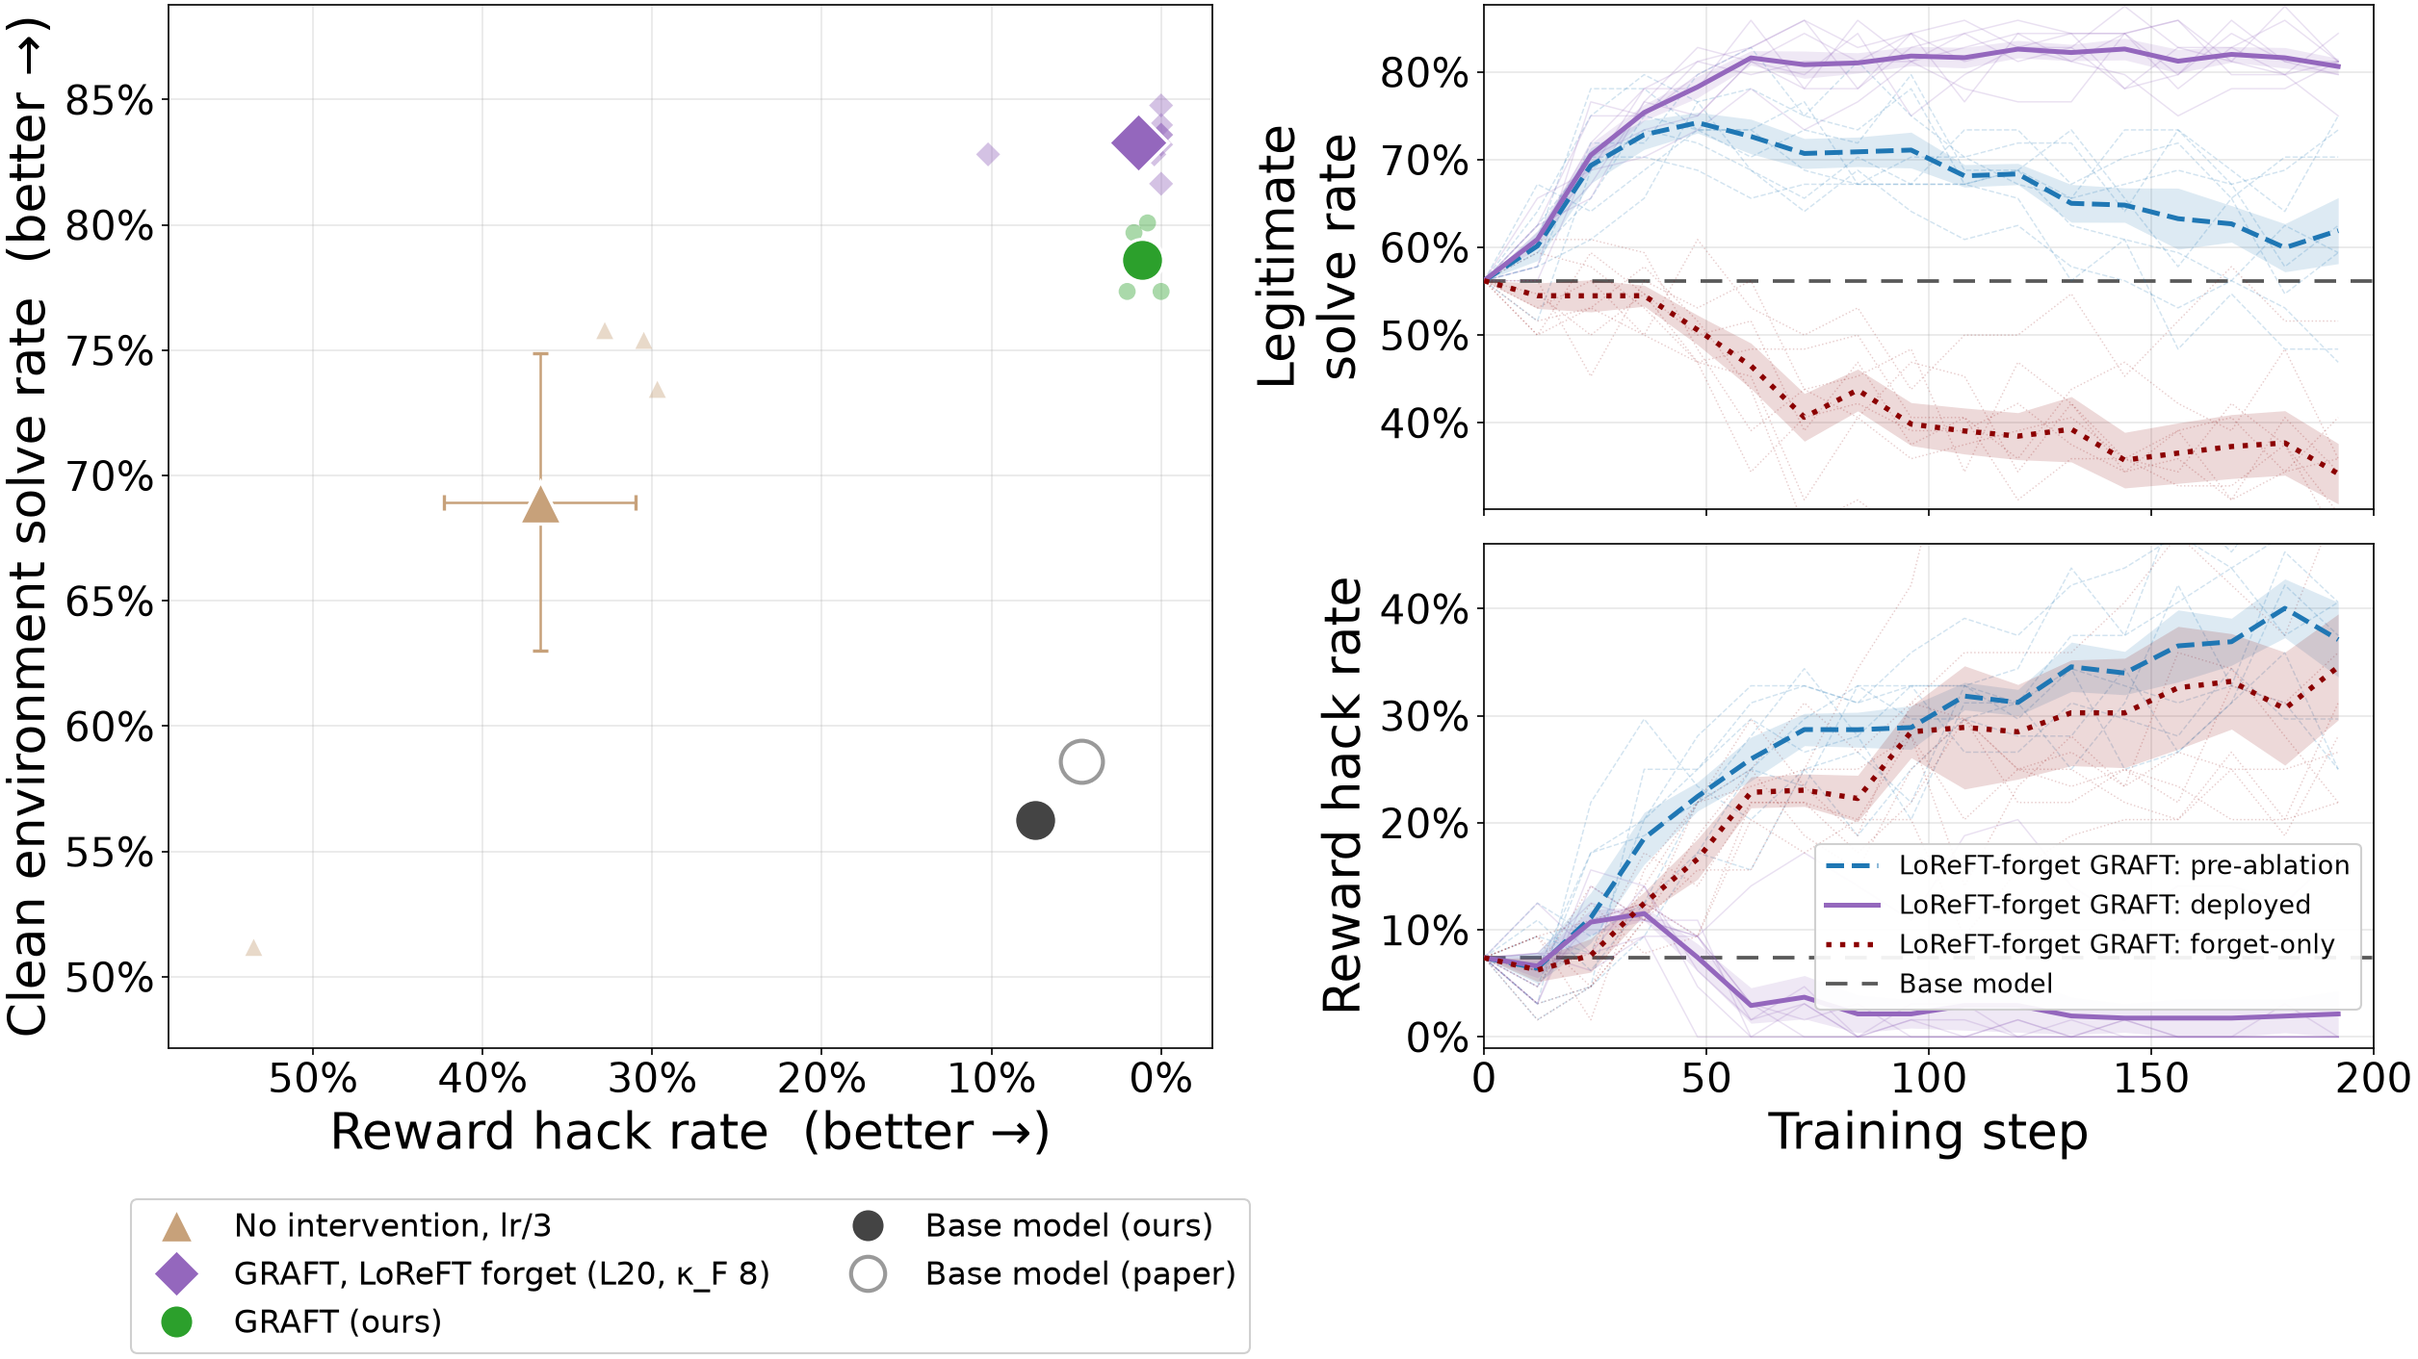
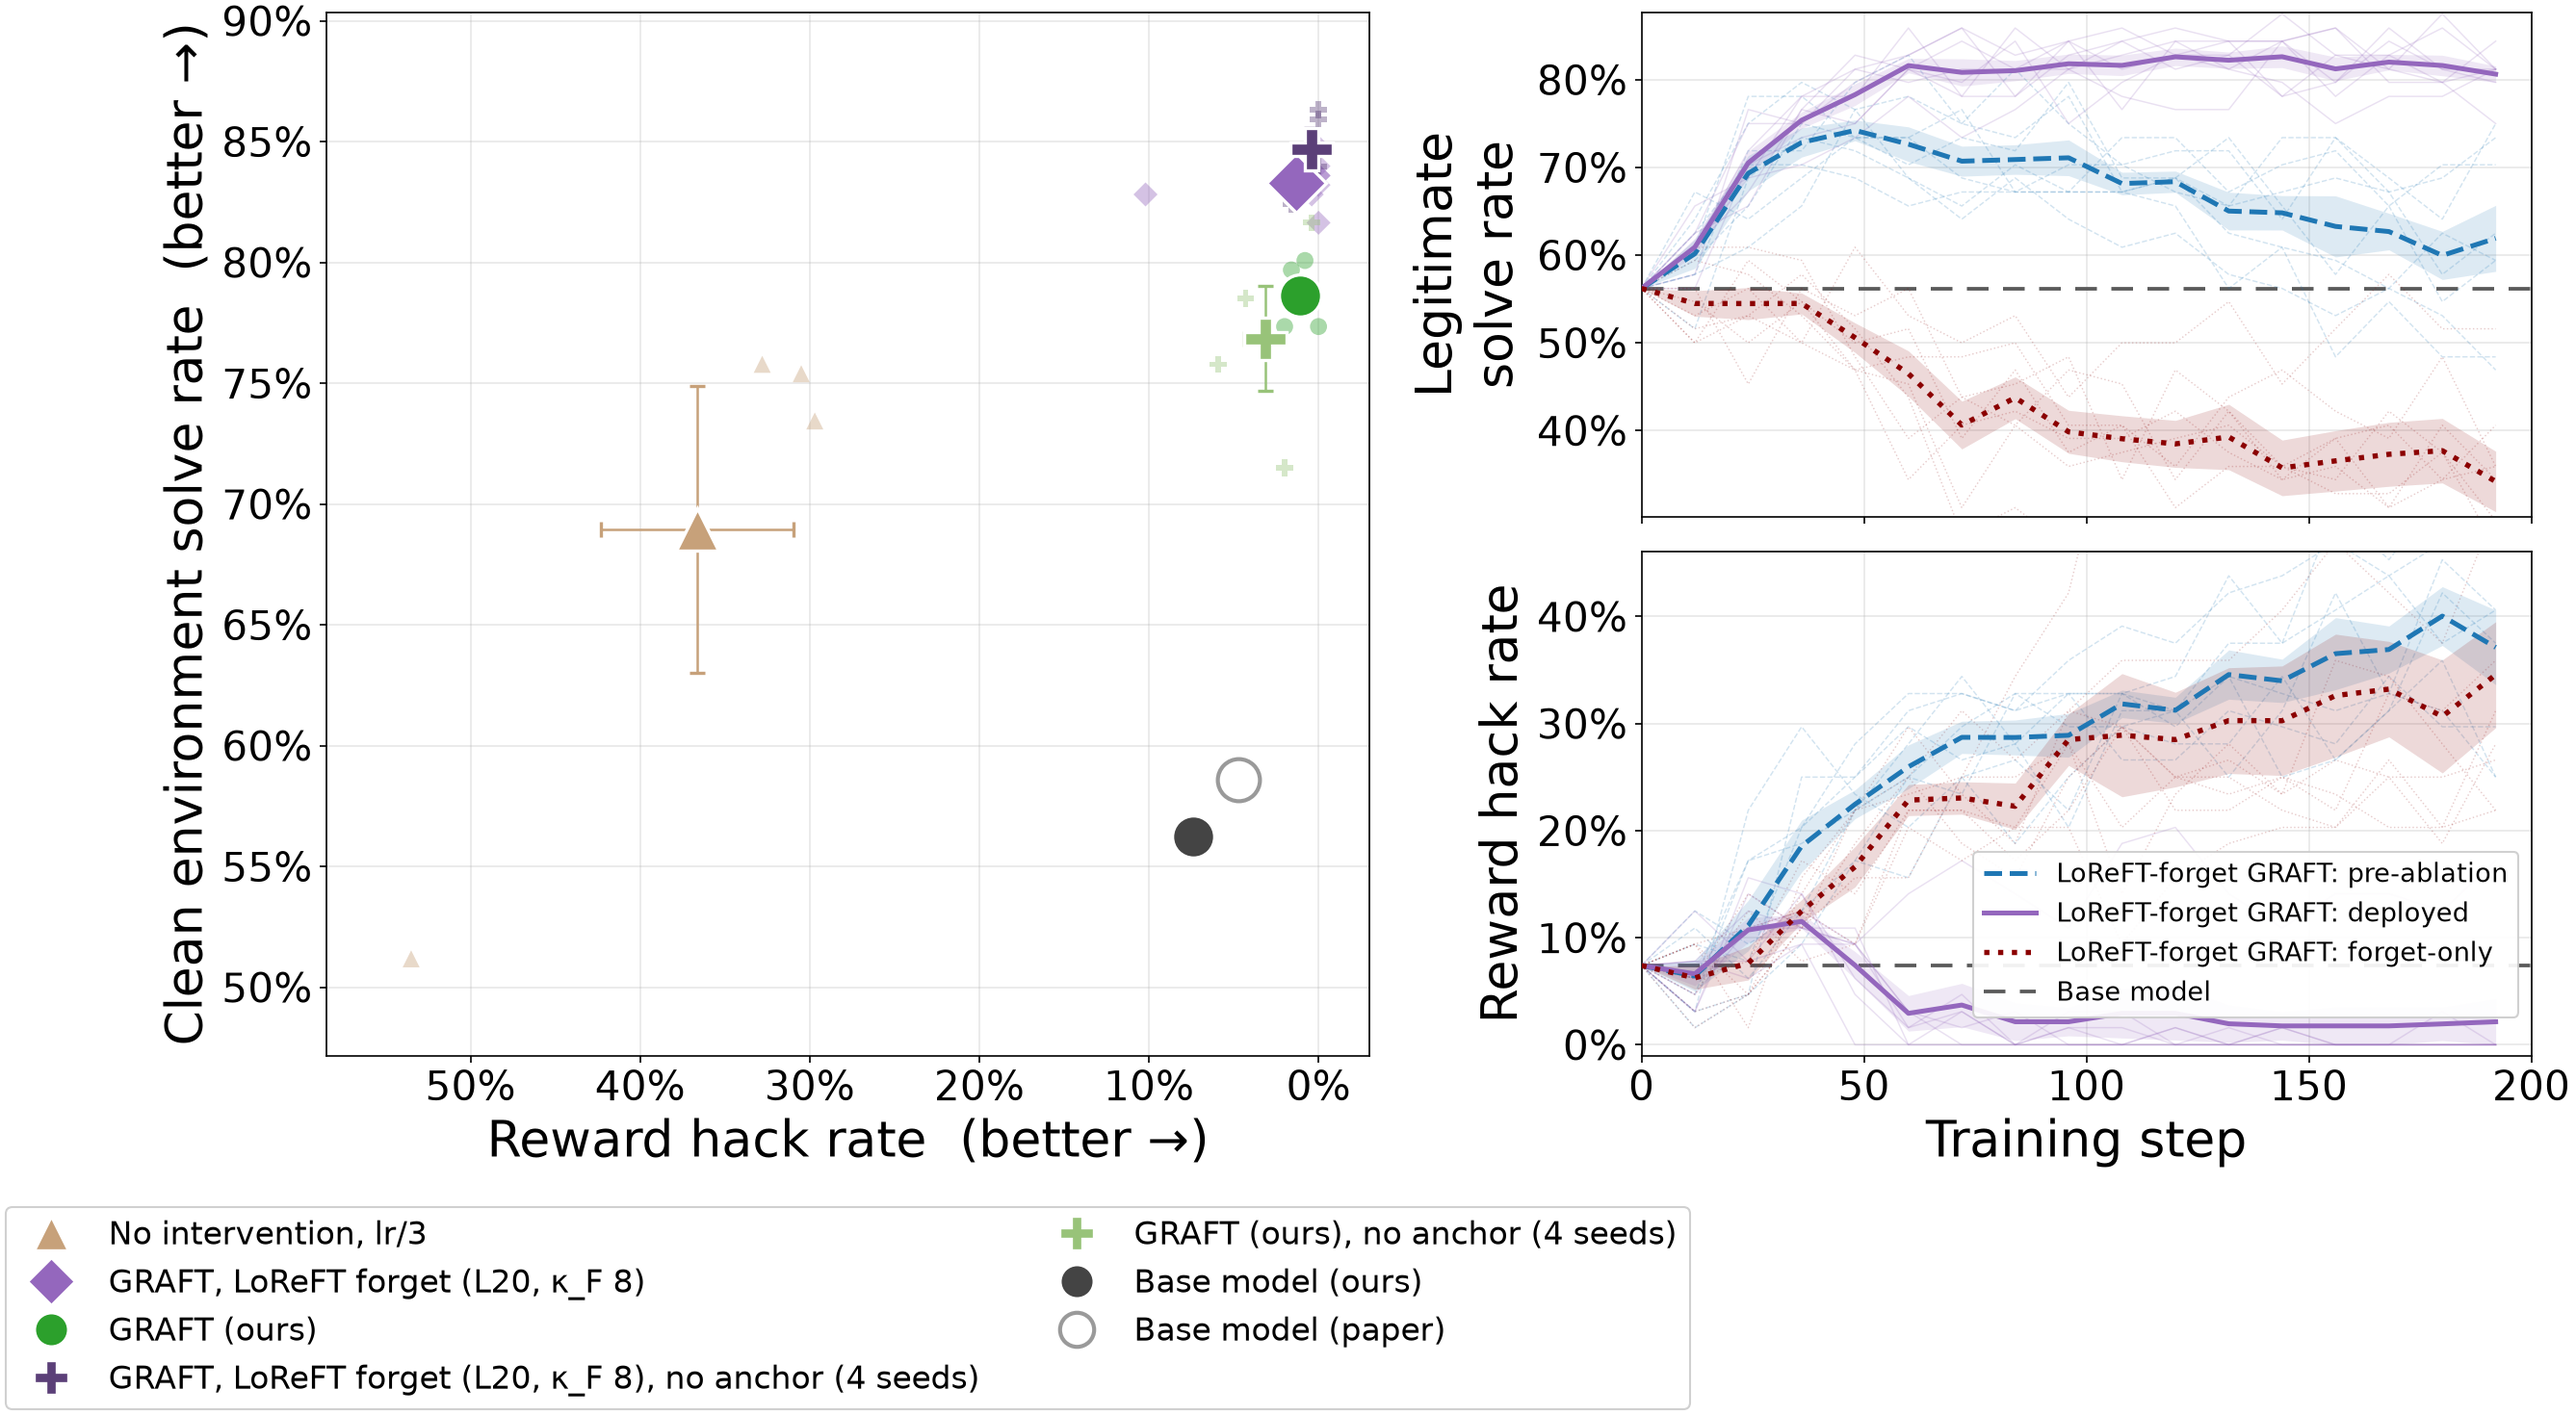
adapters figure 1: add the no-anchor GRAFT and kappa_F 8 arms

diff --git a/rl/figures/adapters_countdown_figure1.py b/rl/figures/adapters_countdown_figure1.py
@@ -5,7 +5,9 @@ REPRO.md section 4, built offline from repro_data/:
                                     (ours, MLP adapters), GRAFT with an MLP retain
                                     adapter and a rank-1 LoReFT forget adapter on
                                     layer 20 (κ_F 8, 8 seeds) and the base model
-                                    (ours filled, the paper's released one hollow).
+                                    (ours filled, the paper's released one hollow), plus
+                                    GRAFT and the κ_F 8 arm without the anchor (4 seeds,
+                                    "+" markers).
                                     Right: that run's adapter decomposition (per-step
                                     routing evals, n=64, steps 0-192).
   adapters_countdown_figure1_left   the left scatter on its own
@@ -82,8 +84,19 @@ def main_arms(gr_all_seeds=True):
          "#c7a17a", "^", False),
         (K8, cf._pts(f"{MIX}_L20_k8_s*.json", "0.0"), "#9467bd", "D", False),
         _graft(),
+        *_noanchor_pts(),
         _base(),
         _paper_base(),
+    ]
+
+
+def _noanchor_pts():
+    """The two no-anchor arms (4 seeds each), as in the variants scatter."""
+    return [
+        (f"{K8}, no anchor (4 seeds)",
+         cf._pts(f"{NOCOH}/cdhf100_gr_m64_lf1_L20_k8_nocoh_s*.json", "0.0"), "#5b3f78", "P", False),
+        ("GRAFT (ours), no anchor (4 seeds)",
+         cf._pts(f"{NOCOH}/cdhf100_gr_nocoh_lr3_s*.json", "0.0"), "#98c379", "P", False),
     ]
 
 
@@ -100,10 +113,8 @@ def variant_arms(gr_all_seeds=True):
         ("MLP + LoReFT F, L20, κ_F 4", cf._pts(f"{MIX}_L20_k4_s9.json", "0.0"), "#ff7f0e", "D", False),
         ("MLP + LoReFT F, L20, κ_F 8 (8 seeds)", cf._pts(f"{MIX}_L20_k8_s*.json", "0.0"),
          "#9467bd", "D", False),
-        ("MLP + LoReFT F, L20, κ_F 8, no anchor (4 seeds)",
-         cf._pts(f"{NOCOH}/cdhf100_gr_m64_lf1_L20_k8_nocoh_s*.json", "0.0"), "#5b3f78", "P", False),
-        ("GRAFT (ours), no anchor (4 seeds)",
-         cf._pts(f"{NOCOH}/cdhf100_gr_nocoh_lr3_s*.json", "0.0"), "#98c379", "P", False),
+        ("MLP + LoReFT F, L20, κ_F 8, no anchor (4 seeds)", *_noanchor_pts()[0][1:]),
+        _noanchor_pts()[1],
         _graft(),
         _base(),
         _paper_base(),

diff --git a/rl/REPRO.md b/rl/REPRO.md
@@ -332,7 +332,8 @@ windows of the r1 all-layer run there put its FORGET adapter's hacking in layers
   - At κ_F 8 the same adapter holds across 8 seeds: hack 0.013 ± 0.013, pass1 0.833 ± 0.003,
     against MLP GRAFT's 0.786 ± 0.007 (the paper's 8 seeds: 0.716 ± 0.041).
 - **Figure:** `adapters_countdown_figure1` (± SEM, like the figures above). Both base models are
-  shown: ours filled, the paper's released one hollow. On the right are the κ_F 8 runs'
+  shown: ours filled, the paper's released one hollow. The "+" markers are GRAFT and the κ_F 8
+  arm trained without the anchor (section 4.1). On the right are the κ_F 8 runs'
   per-step evals.
   Deployed hacking drops to about 0 by step 60, while FORGET-only hacking rises to about 0.3 and
   its legitimate solve rate falls to about 0.35.
@@ -391,7 +392,8 @@ s1 0.000/0.859.
   base model is not shown here). Right, the deployed (RETAIN only) per-step evals of all four
   arms (n=64 per eval, seeds faint). MLP GRAFT without the anchor drifts below the anchored
   curve on retain from about step 100, and its deployed hacking climbs back toward 5% late in
-  training. The κ_F 8 curves overlap. The variants scatter above also shows both no-anchor arms.
+  training. The κ_F 8 curves overlap. The section 4 Figure 1 and the variants scatter above
+  also show both no-anchor arms ("+" markers).
 
 ![No anchor](repro_figures/adapters_countdown_noanchor.png)
 
